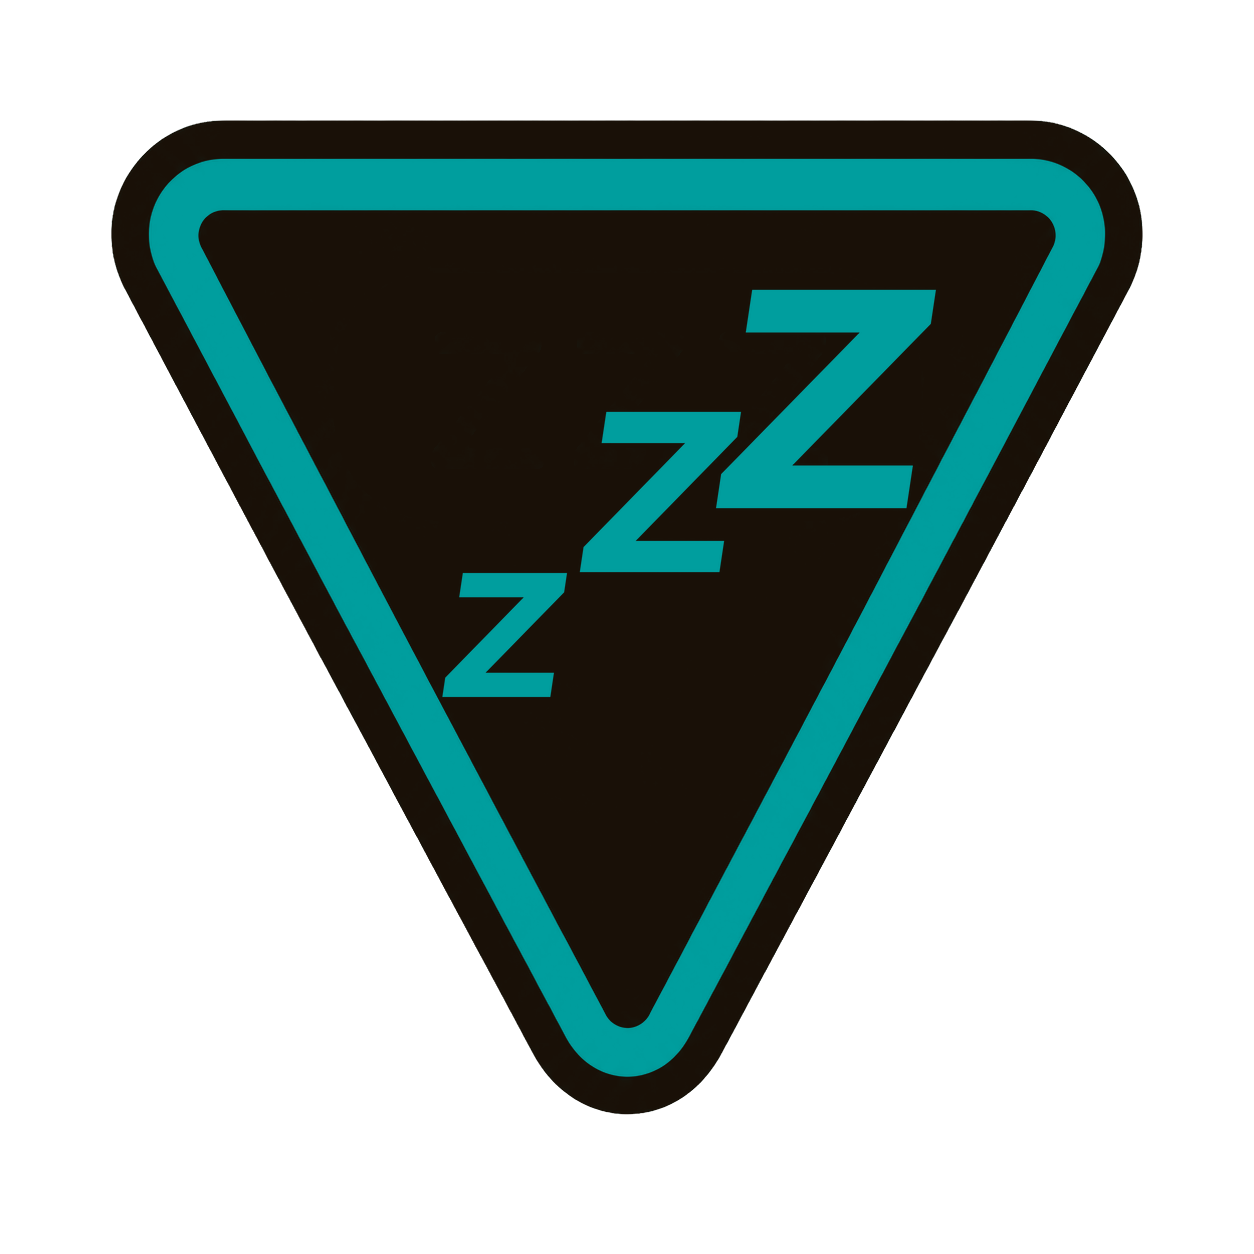
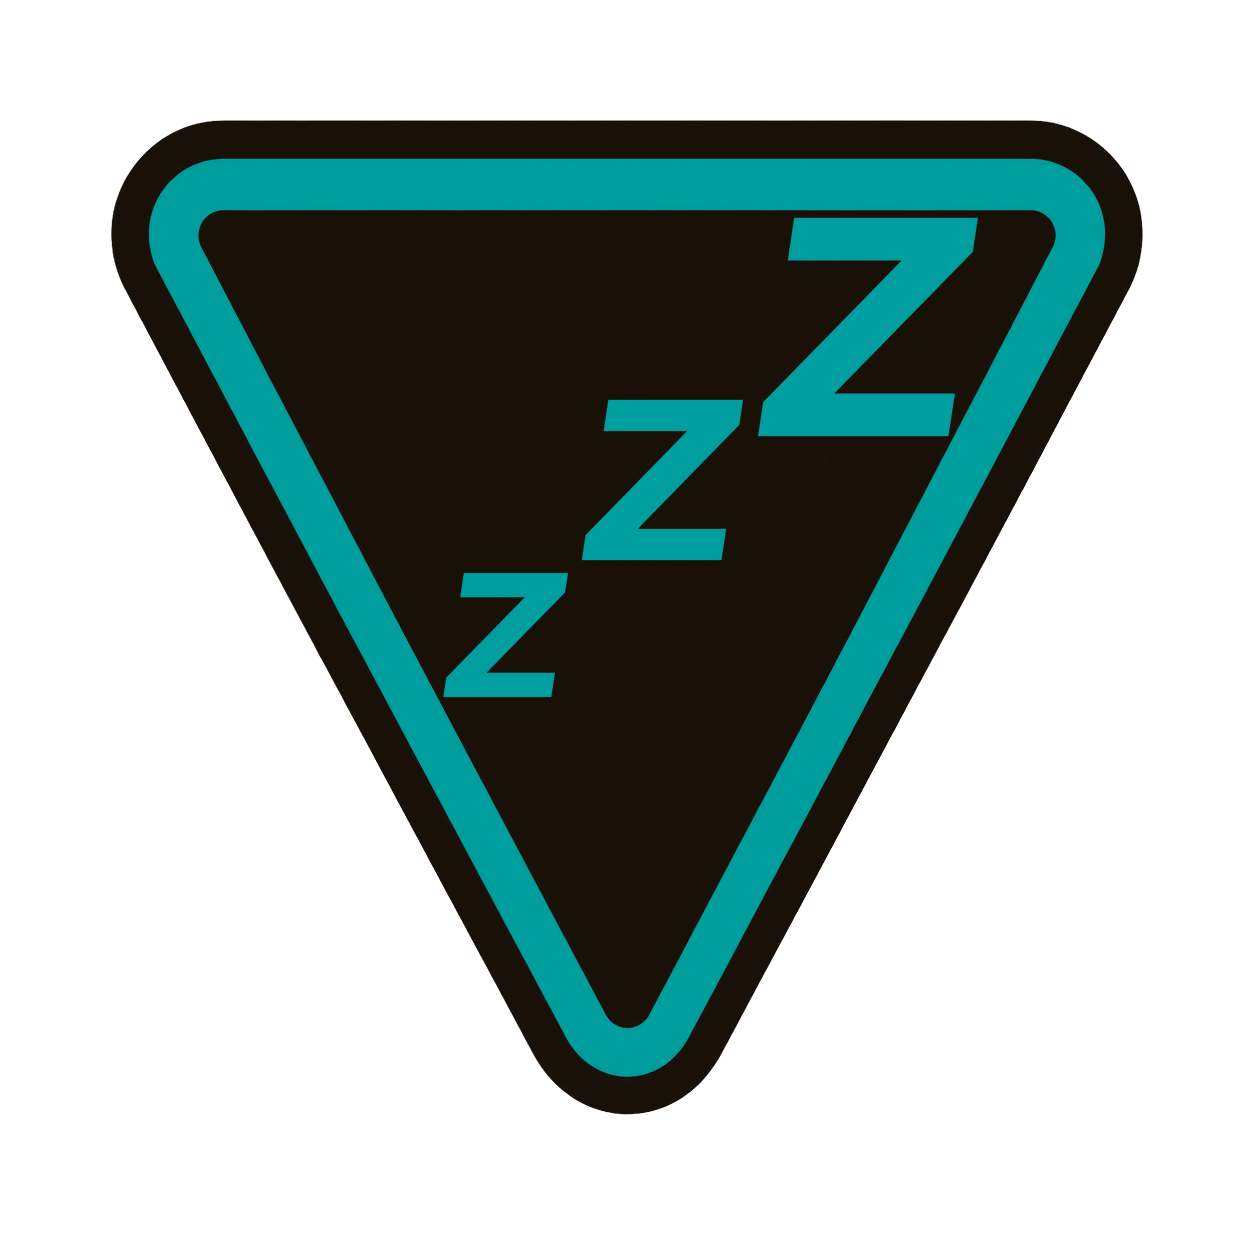
Tuck the exhaustion token's biggest Z further into the corner
A plain "maximise x, minimise y" search still left the top-right Z
short of the triangle's actual corner. Nudged it by hand to a spot
4px clear of the ring at its closest, and rebuilt the middle and
small Zs' positions from there.

Changed region(s): [[0.4665, 0.1555, 0.7775, 0.4665]]

diff --git a/scripts/redraw_exhaust_zs.py b/scripts/redraw_exhaust_zs.py
@@ -23,16 +23,18 @@ neighbours rather than overlapping.
 **The first draft overlapped the three Zs and undersold the corner.** It
 read as one interlocking zigzag rather than three letters, and its largest
 Z sat well short of the top-right corner because it was placed by eye
-rather than measured against where the ring actually is. This draft
-searches for every glyph's position instead: the biggest Z's spot is
-whichever clears the face's row-by-row width (the triangle narrowing
-toward its point, sampled the same way the erase mask is built) while
-maximising how far into the corner it sits; the other two are placed as
-close as they can get to their target spot -- the smallest near the first
-draft's own position, the middle roughly between its neighbours -- while
-keeping a 10px gap from every other glyph's actual ink, not just its
-bounding box, so letters that lean past their own rectangle (the shear, or
-a stroke's own diagonal) still can't touch.
+rather than measured against where the ring actually is. The second draft
+placed every glyph by search instead, scoring the biggest Z's spot by how
+far into the corner a plain "maximise x, minimise y" reading put it -- and
+still landed short, since that score has no way to know a position further
+into the corner exists along a slightly different path than straight up
+and right. **The author moved it the rest of the way by hand**, and the
+other two Zs are built out from that spot rather than the search's: the
+smallest as close as it can get to the first draft's own position, the
+middle roughly between its neighbours, both while keeping a 10px gap from
+every other glyph's actual ink, not just its bounding box, so letters that
+lean past their own rectangle (the shear, or a stroke's own diagonal)
+still can't touch.
 
     python3 scripts/redraw_exhaust_zs.py                 # dry run
     python3 scripts/redraw_exhaust_zs.py --in-place
@@ -92,10 +94,15 @@ SUPERSAMPLE = 4
 # draft's spot (the smallest) or the midpoint between its neighbours (the
 # middle) that both clears the ring and keeps a 10px gap from the other
 # glyphs' own ink, not just their boxes -- the first draft let them touch.
+# The biggest Z's own spot is the author's, not the search's: a plain
+# top-right-ness score (maximise x, minimise y) still left it well short of
+# the actual corner, short enough that the author moved it by hand and had
+# the rest built out from there -- (901, 327), 4px clear of the ring at its
+# closest, is that position read back off the art.
 ZS = [
-    (300, (858, 399)),
-    (220, (684, 492)),
-    (170, (523, 635)),
+    (300, (900, 327)),
+    (220, (686, 480)),
+    (170, (524, 635)),
 ]
 
 # A horizontal shear (not a rotation, so the strokes across each Z stay

diff --git a/docs/design/species-abilities.md b/docs/design/species-abilities.md
@@ -343,15 +343,17 @@ missing other half for Injured, scoped the same way.
   any change to the amber art, including this one, or the two drift apart.
   - **The first draft placed each glyph by eye and let them overlap** into
     one interlocking zigzag, with the biggest Z well short of the corner.
-    The version that shipped places every glyph by search instead: the
-    biggest Z's spot is whichever clears the face's row-by-row width (the
-    triangle narrowing toward its point, sampled the same way the erase
-    mask is built) while maximising how far into the corner it sits; the
-    other two are placed as close as they can get to a target spot -- the
-    smallest near the first draft's own position, the middle roughly
-    between its neighbours -- while keeping a 10px gap from every other
-    glyph's actual ink, not just its bounding box, so a glyph's own
-    diagonal stroke still can't touch its neighbour.
+    The second draft placed every glyph by search instead, scoring the
+    biggest Z's spot by how far a plain "maximise x, minimise y" reading
+    pushed it into the corner -- and still fell short, since that score
+    can't find a position further in along a path other than straight up
+    and right. **The author moved it the rest of the way by hand**
+    (2026-09-19), and the other two Zs are built out from that spot rather
+    than the search's: the smallest as close as it can get to the first
+    draft's own position, the middle roughly between its neighbours, both
+    while keeping a 10px gap from every other glyph's actual ink, not just
+    its bounding box, so a glyph's own diagonal stroke still can't touch
+    its neighbour.
 
 **Overdrive is the only thing in the game declared before a roll**, which is
 what it cost to build. Every roll already sits behind a button any coach may
